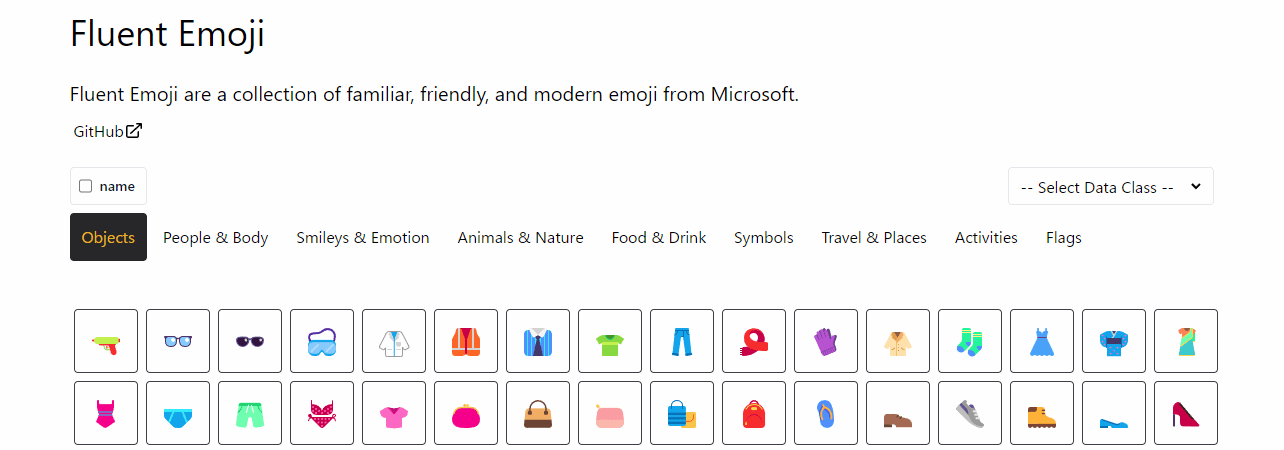
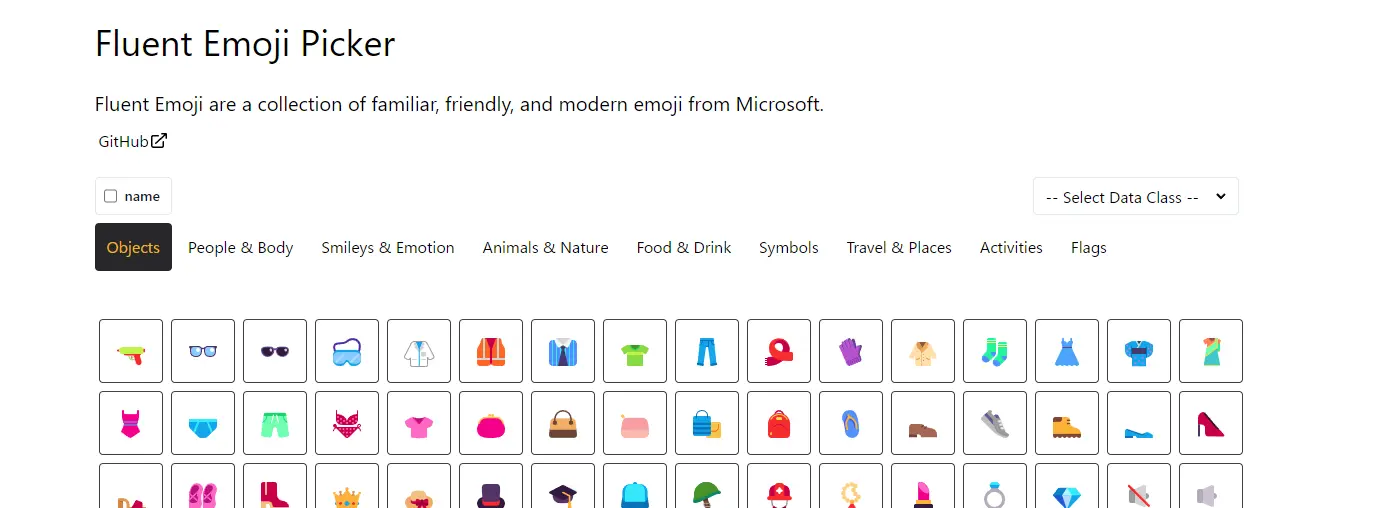
📝 Update fluent-emoji.md

diff --git a/src/pages/dev/fluent-emoji.md b/src/pages/dev/fluent-emoji.md
@@ -7,18 +7,14 @@ breadcrumbs: [{ "name": "Development", "href": "/dev" }]
 
 # Fluent Emoji Picker
 
-Fluent Emoji are a collection of familiar, friendly, and modern emoji from Microsoft.  
-Using Fluent Emoji Picker, you can easily copy emoji in SVG format.
-
-## Link
+<img src="/img/dev/fluent-emoji.webp" alt="Fluent Emoji Picker Sample Image" width="1000px" height="360px">
 
 [fluentemoji.ryu.app](https://fluentemoji.ryu.app/)
+
+Fluent Emoji are a collection of familiar, friendly, and modern emoji from Microsoft.  
+Using Fluent Emoji Picker, you can easily copy emoji in SVG format.
 
 ## Technology Stack
 
 - Next.js
 - Tailwind CSS
-
-## Image
-
-<img src="/img/dev/fluent-emoji.webp" alt="Fluent Emoji Picker Sample Image" width="984px" height="344px">
